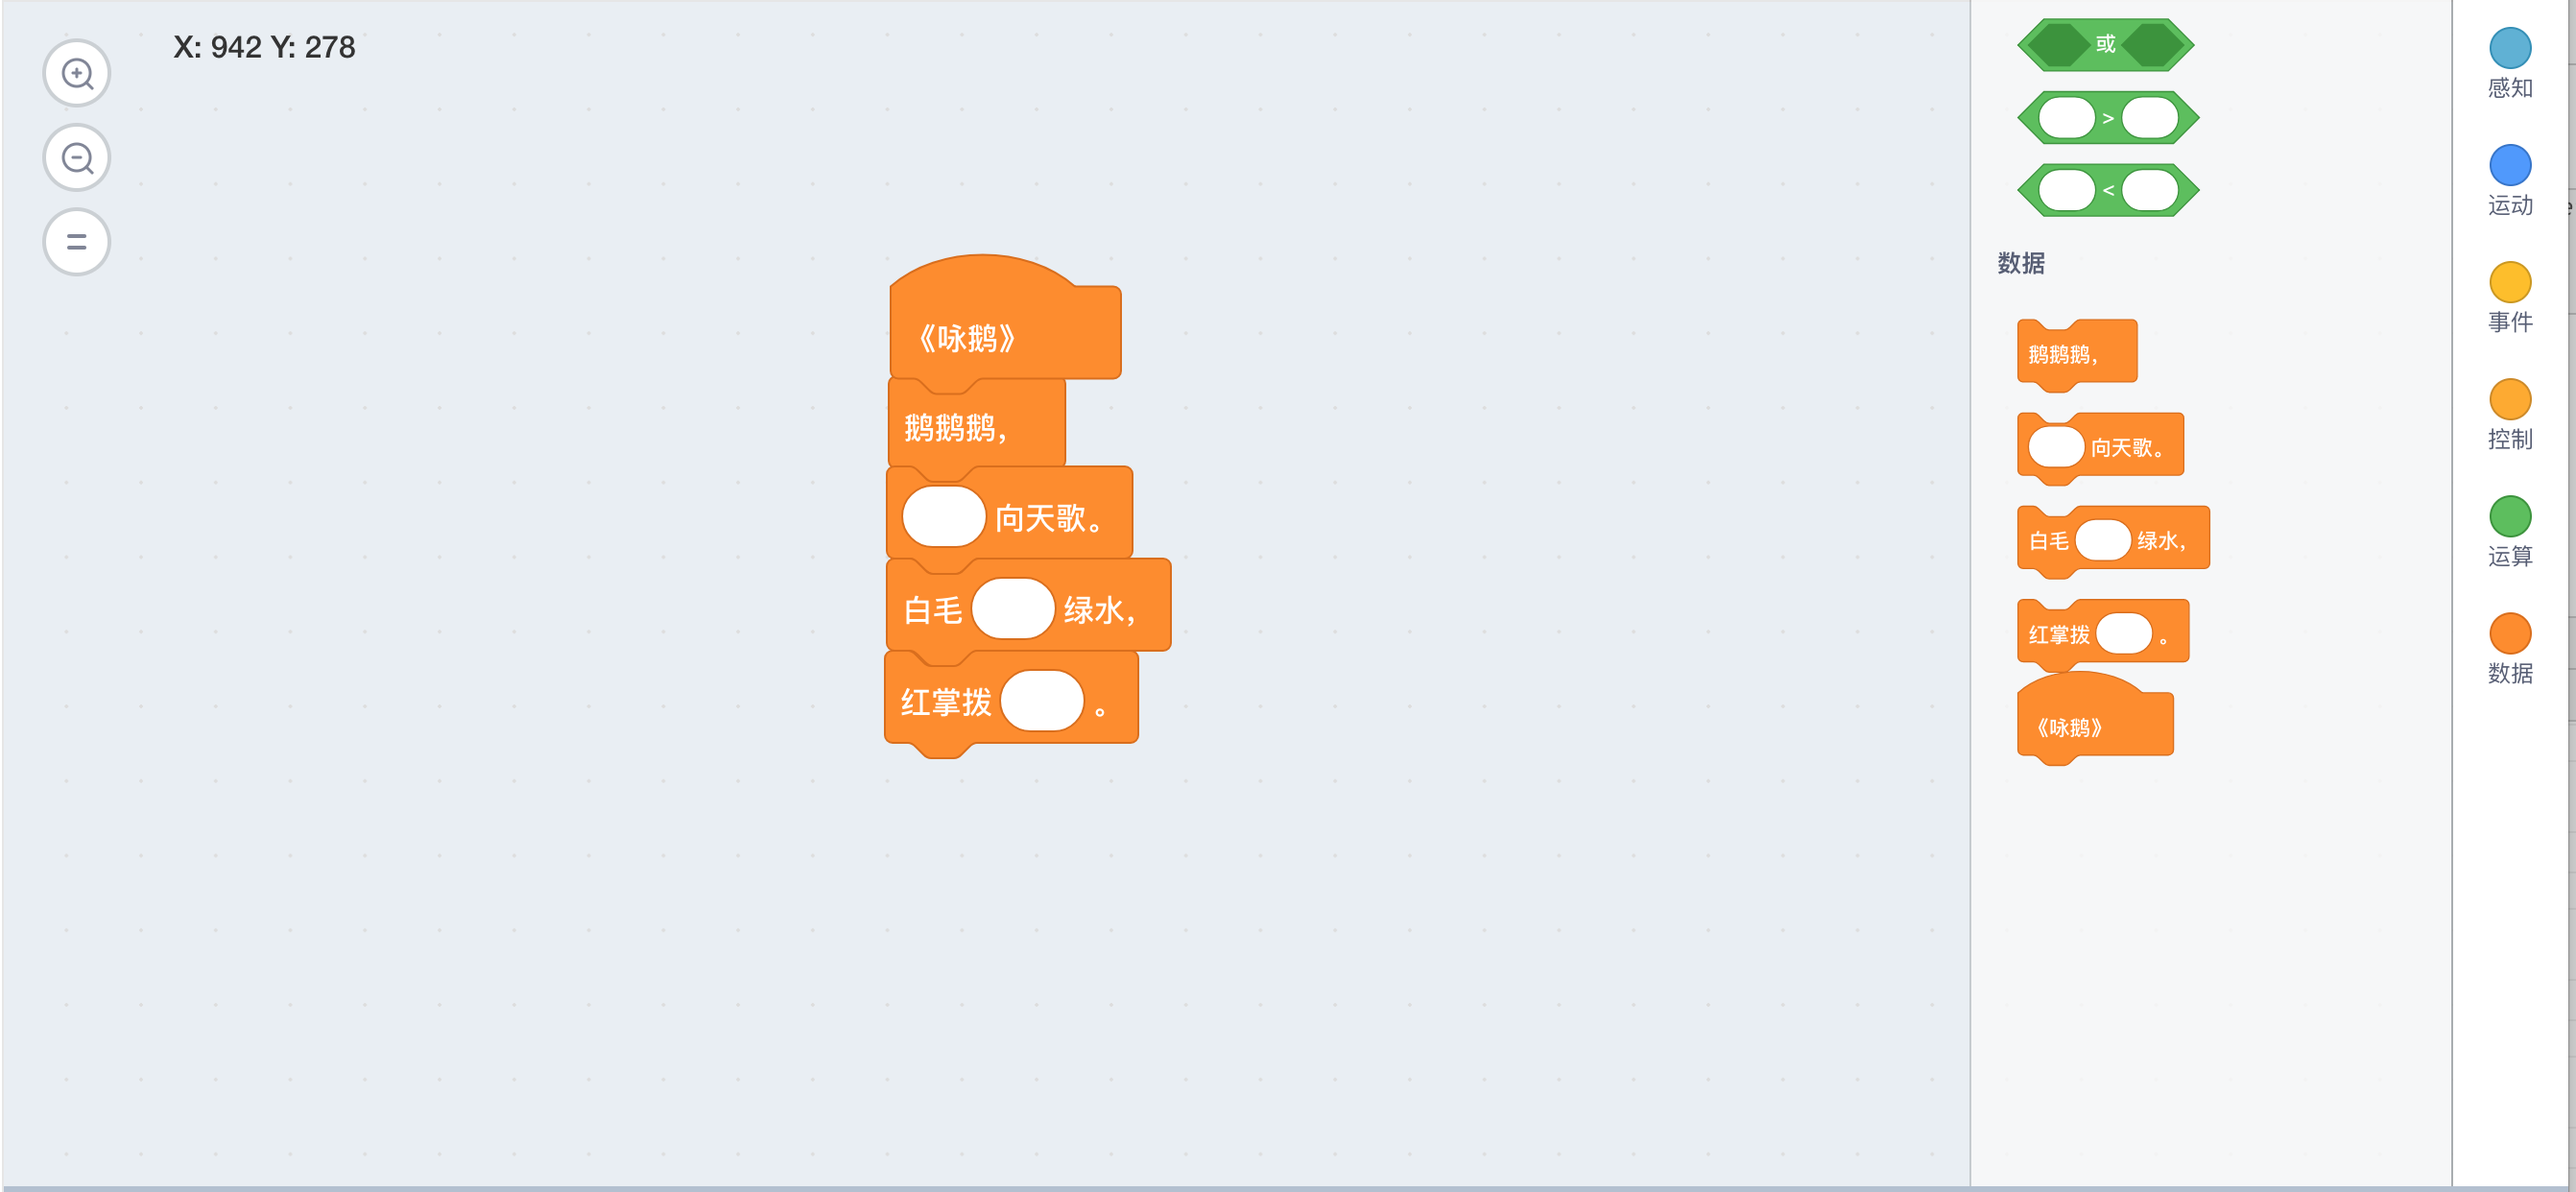
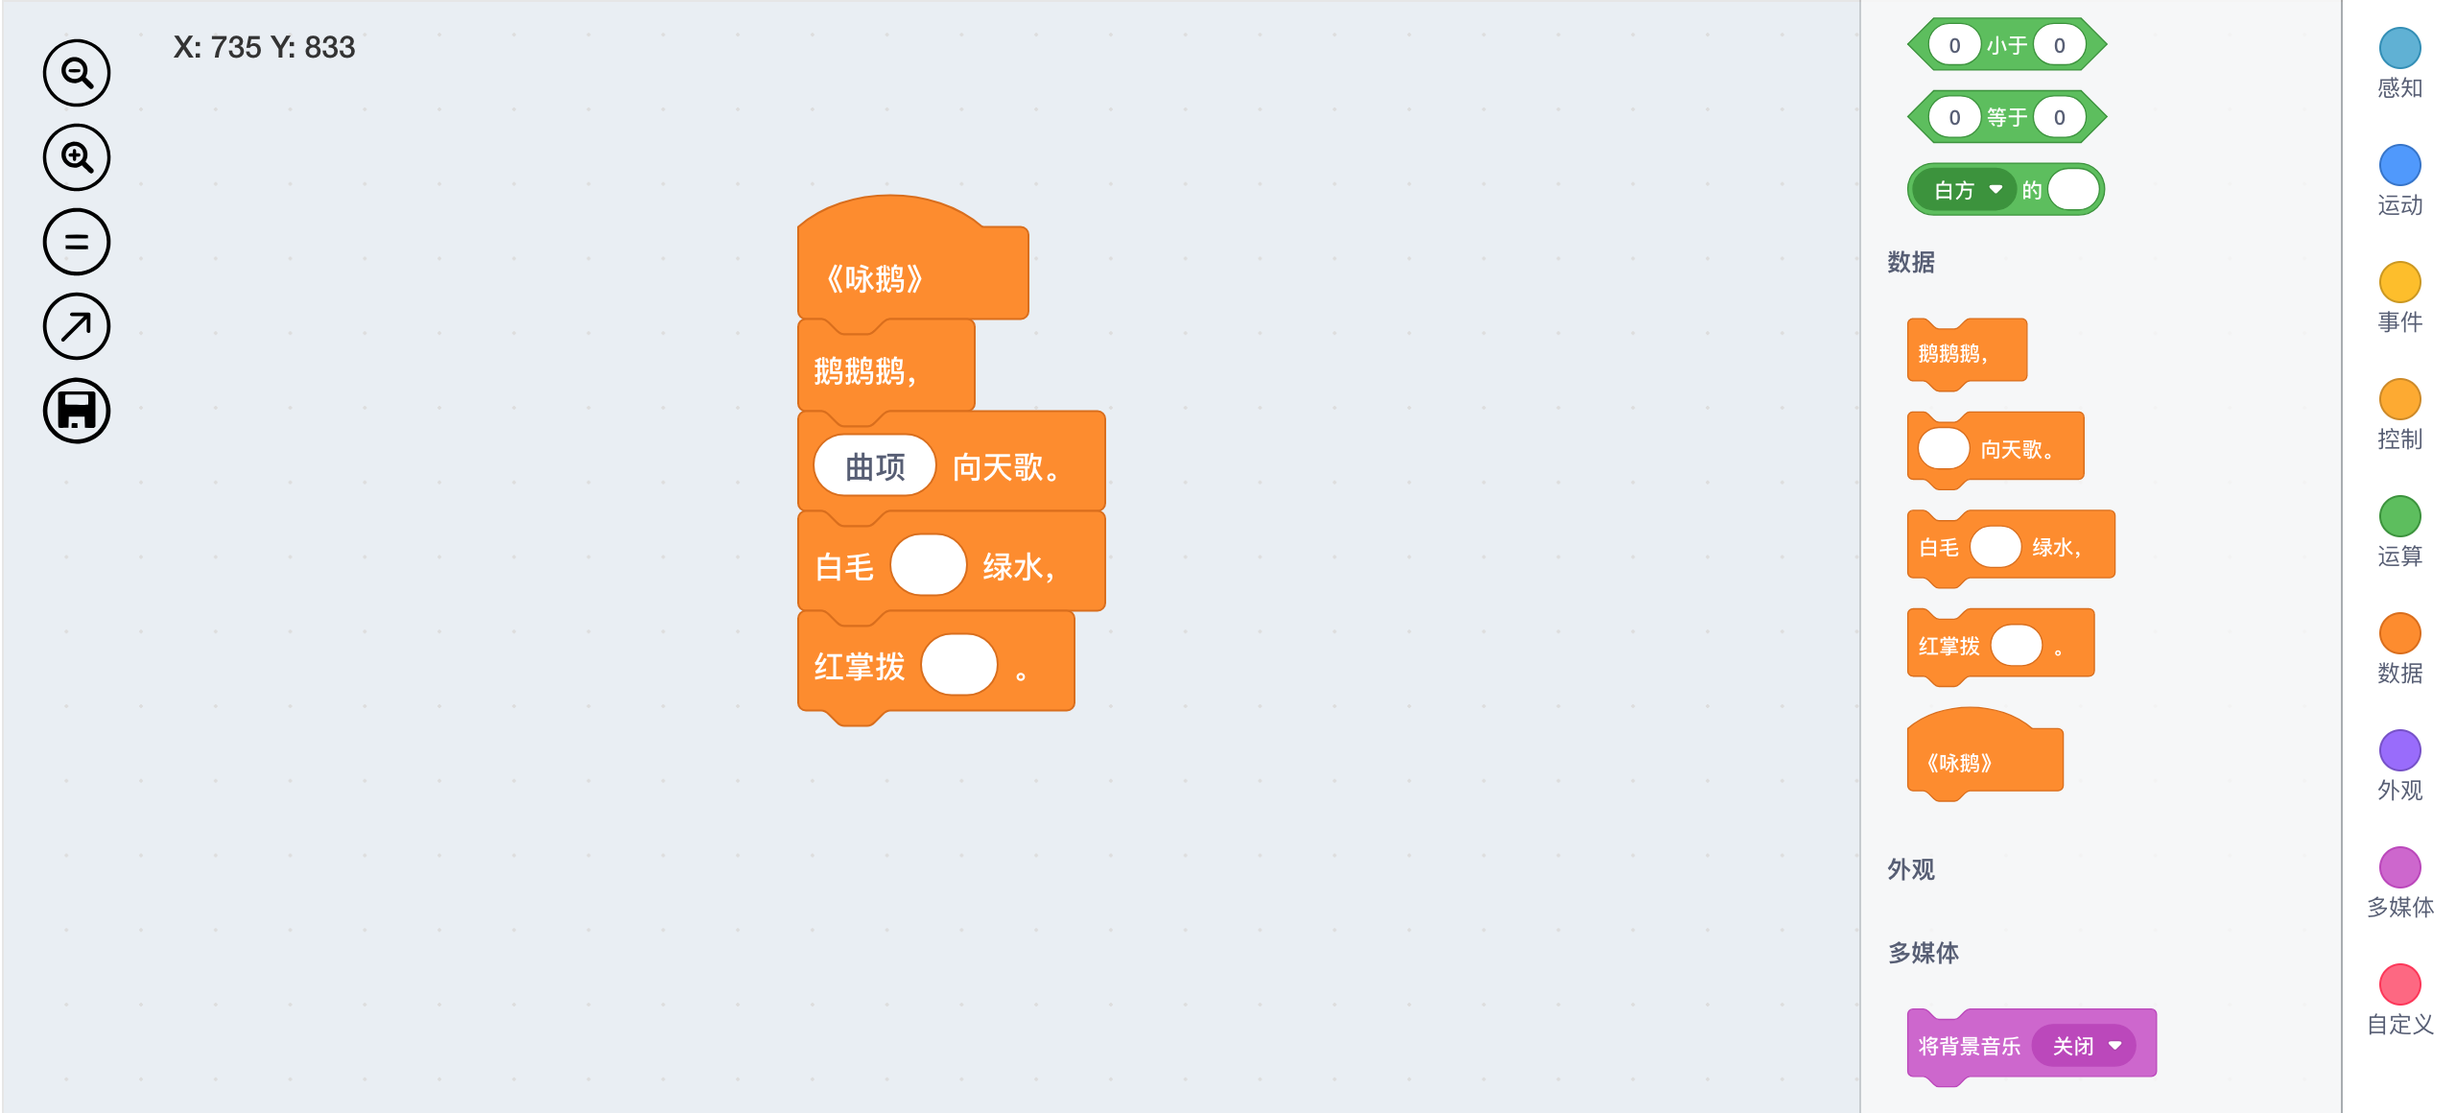
完善界面

diff --git a/client/src/scratch/blockDefs/packages/base/express/selector.js b/client/src/scratch/blockDefs/packages/base/express/selector.js
@@ -1,0 +1,43 @@
+export default [
+  {
+    id: 'camp',
+    name: '阵营选择器',
+    shape: 'round',
+    category: 'operator',
+    draggable: true,
+    state: {
+      size: {
+        padding: 4
+      },
+      data: {
+        sections: [
+          {
+            type: 'argument',
+            datatype: 'enum',
+            data: {
+              currentIndex: 0,
+              values: [
+                {name: '白方', value: 0},
+                {name: '红方', value: 1},
+                {name: '蓝方', value: 2}
+              ]
+            }
+          },
+          {
+            type: 'text',
+            text: '的'
+          },
+          {
+            type: 'argument',
+            datatype: 'string'
+          }
+        ]
+      }
+    },
+    exports: {
+      json: function (elem) {
+        return {}
+      }
+    }
+  }
+]

diff --git a/client/src/scratch/blockDefs/packages/base/event/interaction.js b/client/src/scratch/blockDefs/packages/base/event/interaction.js
@@ -30,5 +30,35 @@ export default [
         return {}
       }
     }
+  },
+  {
+    id: 'detect',
+    shape: 'cap',
+    category: 'event',
+    draggable: true,
+    begin: true,
+    state: {
+      data: {
+        sections: [
+          {
+            type: 'text',
+            text: '当探测到'
+          },
+          {
+            type: 'argument',
+            datatype: 'string'
+          },
+          {
+            type: 'text',
+            text: '时'
+          }
+        ]
+      }
+    },
+    exports: {
+      json: function (elem) {
+        return {}
+      }
+    }
   }
 ]

diff --git a/client/src/scratch/blockDefs/packages/base/variant/entity.js b/client/src/scratch/blockDefs/packages/base/variant/entity.js
@@ -1,0 +1,36 @@
+export default [
+  {
+    id: 'submarine',
+    name: '潜艇',
+    shape: 'round',
+    category: 'sensing',
+    draggable: true,
+    state: {
+      data: {
+        text: '潜艇'
+      }
+    },
+    exports: {
+      json: function (elem) {
+        return {}
+      }
+    }
+  },
+  {
+    id: 'ship',
+    name: '水面船只',
+    shape: 'round',
+    category: 'sensing',
+    draggable: true,
+    state: {
+      data: {
+        text: '水面船只'
+      }
+    },
+    exports: {
+      json: function (elem) {
+        return {}
+      }
+    }
+  }
+]

diff --git a/client/src/scratch/blockDefs/packages/base/express/index.js b/client/src/scratch/blockDefs/packages/base/express/index.js
@@ -1,8 +1,9 @@
 import algebras from './algebra'
+import selectors from './selector'
 
 let blocks = []
 
-blocks = blocks.concat(algebras)
+blocks = blocks.concat(algebras, selectors)
 
 export default blocks
 

diff --git a/client/src/scratch/blockDefs/packages/base/variant/index.js b/client/src/scratch/blockDefs/packages/base/variant/index.js
@@ -1,6 +1,7 @@
 import location from './location'
+import entities from './entity'
 
 let blocks = []
-blocks = blocks.concat(location)
+blocks = blocks.concat(location, entities)
 
 export default blocks
